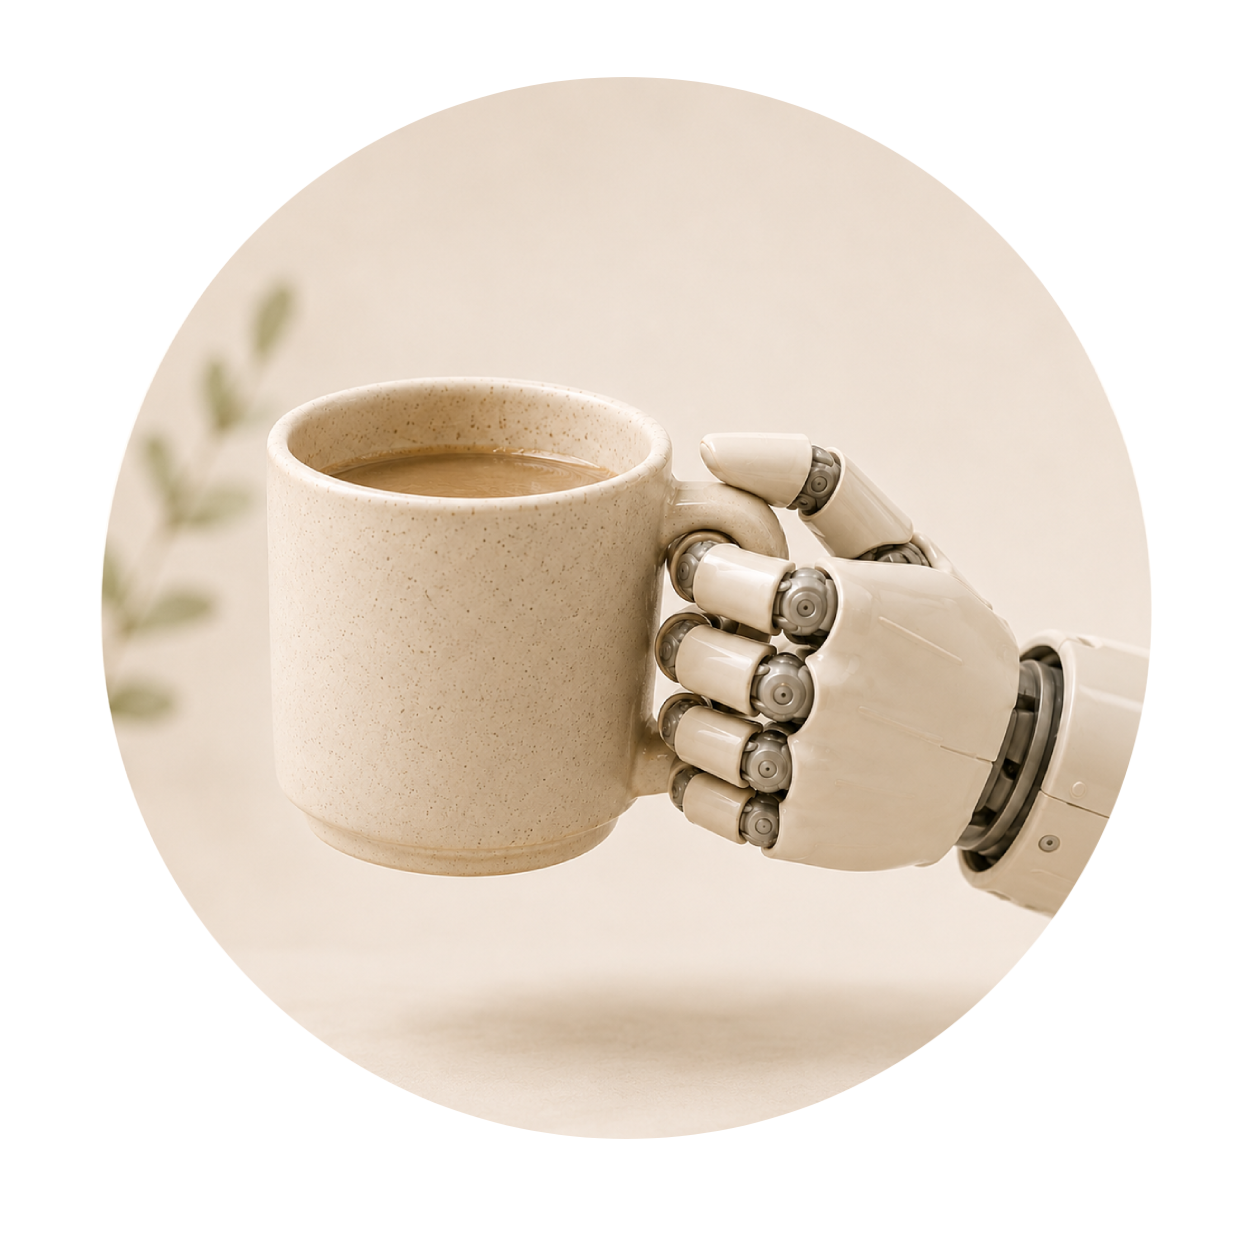
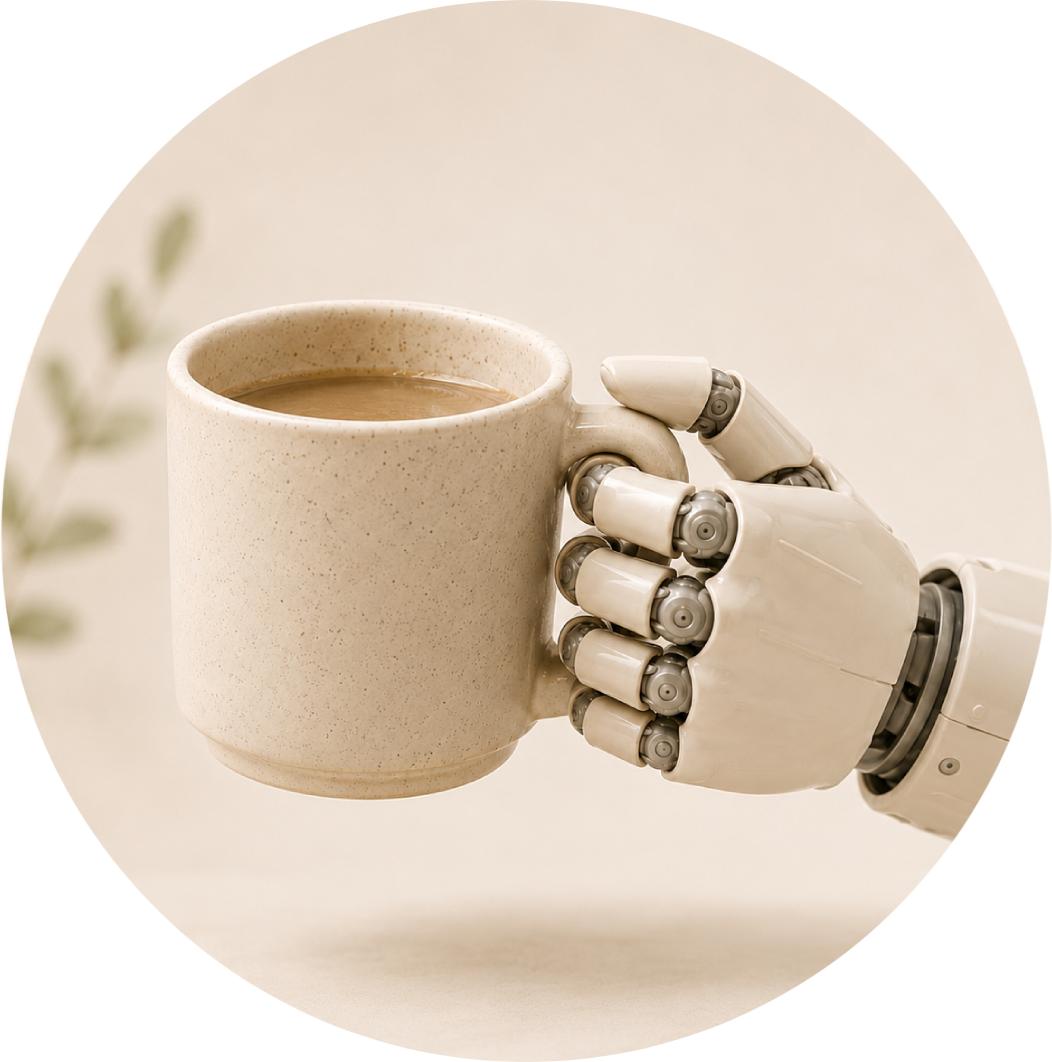
Update workflow section assets

diff --git a/about/index.html b/about/index.html
@@ -1930,7 +1930,7 @@
                 </div>
               </div>
               <figure class="how-step-visual">
-                <img src="../assets/Coffee.png" alt="Robotic hand holding a coffee mug" />
+                <img src="../assets/Coffee.png?v=20260717" alt="Robotic hand holding a coffee mug" />
               </figure>
             </article>
 
@@ -1946,7 +1946,7 @@
                 </div>
               </div>
               <figure class="how-step-visual">
-                <img src="../assets/Diagram.png" alt="Robotic hand drawing a process diagram" />
+                <img src="../assets/Diagram.png?v=20260717" alt="Robotic hand drawing a process diagram" />
               </figure>
             </article>
 
@@ -1962,7 +1962,7 @@
                 </div>
               </div>
               <figure class="how-step-visual">
-                <img src="../assets/Shake.png" alt="Two robotic hands shaking hands" />
+                <img src="../assets/light.png?v=20260717" alt="Robotic hand holding a glowing light bulb" />
               </figure>
             </article>
           </div>
